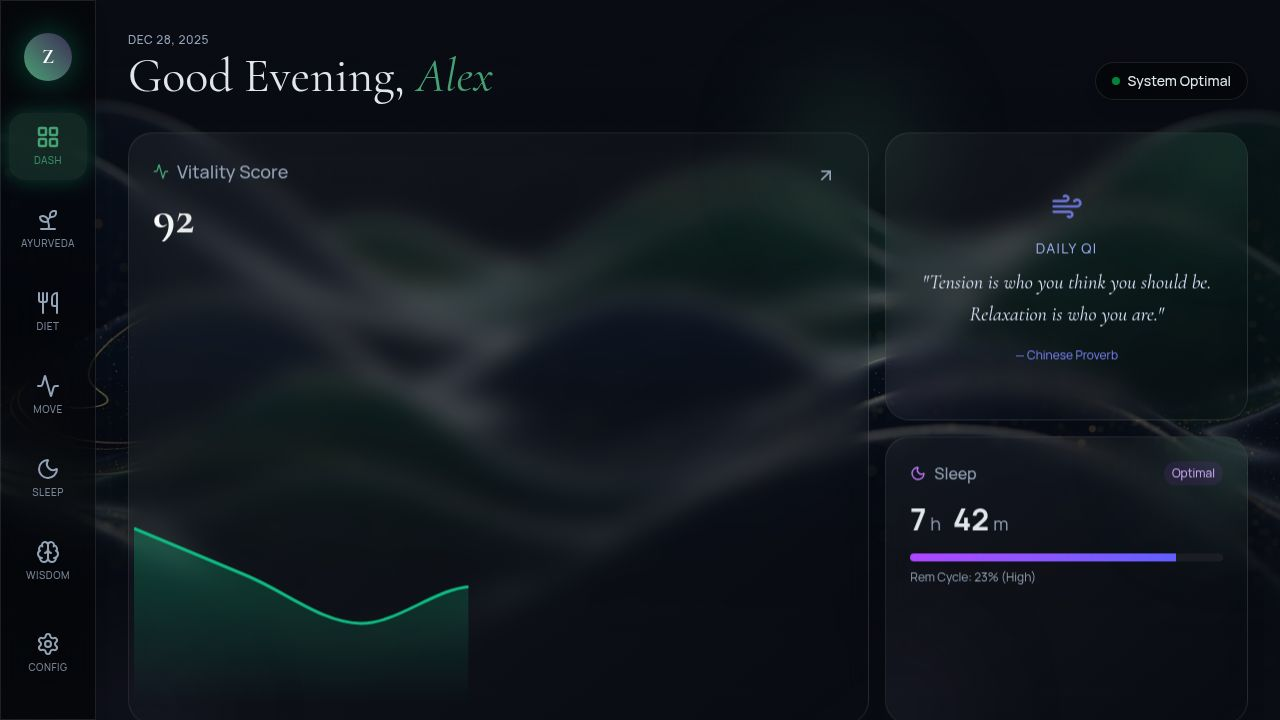
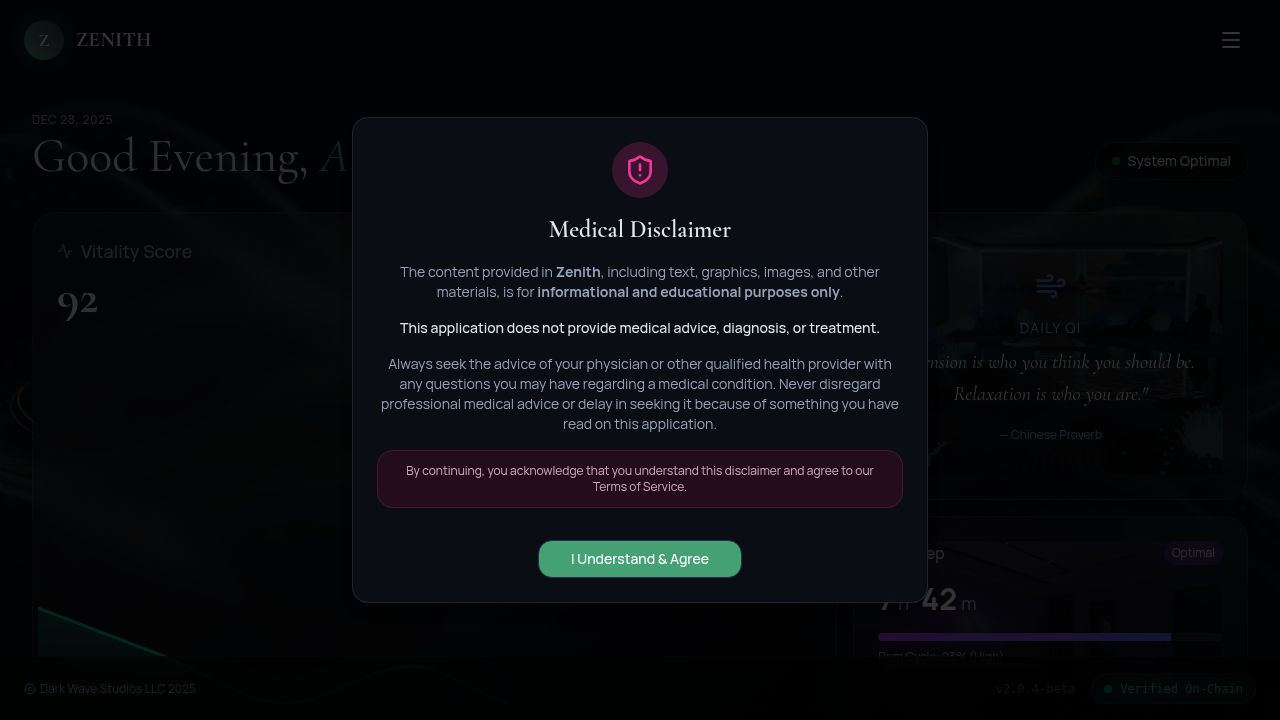
Update app visuals with new imagery and responsive design
Refactors UI components to use photorealistic card backgrounds, updates color palettes to a cyberpunk pastel theme, and ensures all modals are mobile-responsive.

Replit-Commit-Author: Agent
Replit-Commit-Session-Id: ba9a7f8b-3c4c-42c8-ab50-ab88c8bc8138
Replit-Commit-Checkpoint-Type: full_checkpoint
Replit-Commit-Event-Id: 4080deb7-ec1f-4f6b-8638-ea4f52dde22e
Replit-Commit-Screenshot-Url: https://storage.googleapis.com/screenshot-production-us-central1/c3c833f9-f728-4fd9-8731-e0b7935aac36/ba9a7f8b-3c4c-42c8-ab50-ab88c8bc8138/WCYKv8z
Replit-Helium-Checkpoint-Created: true

diff --git a/client/src/pages/Home.tsx b/client/src/pages/Home.tsx
@@ -3,6 +3,9 @@ import { BentoGrid, BentoCard } from "@/components/ui/bento-grid";
 import { motion } from "framer-motion";
 import { Activity, Leaf, Moon, Sun, Wind, ArrowUpRight, Heart, Brain, Utensils } from "lucide-react";
 import { Area, AreaChart, ResponsiveContainer, XAxis, YAxis, Tooltip } from "recharts";
+import sleepBg from "@assets/generated_images/ethereal_bedroom_sleep_sanctuary_with_nebula_projection.png";
+import dietBg from "@assets/generated_images/cyberpunk_healthy_smoothie_bowl_with_neon_lighting.png";
+import zenBg from "@assets/generated_images/futuristic_zen_garden_with_bioluminescent_plants.png";
 
 const data = [
   { name: "Mon", value: 4000 },
@@ -36,8 +39,8 @@ export default function Home() {
 
       <BentoGrid>
         {/* Main Health Score */}
-        <BentoCard colSpan={2} rowSpan={2} className="relative overflow-visible">
-          <div className="flex justify-between items-start mb-4">
+        <BentoCard colSpan={2} rowSpan={2} className="relative overflow-hidden">
+          <div className="flex justify-between items-start mb-4 relative z-10">
             <div>
               <h3 className="text-lg font-medium text-muted-foreground flex items-center gap-2">
                 <Activity className="w-4 h-4 text-primary" /> Vitality Score
@@ -51,7 +54,7 @@ export default function Home() {
             </button>
           </div>
           
-          <div className="h-[200px] w-full mt-auto -mb-6 -mx-6">
+          <div className="h-[200px] w-full mt-auto -mb-6 -mx-6 relative z-10">
             <ResponsiveContainer width="100%" height="100%">
               <AreaChart data={data}>
                 <defs>
@@ -80,72 +83,88 @@ export default function Home() {
         </BentoCard>
 
         {/* Daily Wisdom - Eastern */}
-        <BentoCard className="bg-gradient-to-br from-indigo-900/40 to-purple-900/40 border-indigo-500/20">
-          <div className="flex flex-col h-full justify-center text-center p-2">
+        <BentoCard className="relative overflow-hidden group">
+          <div className="absolute inset-0 bg-cover bg-center transition-transform duration-700 group-hover:scale-110 opacity-40" 
+               style={{ backgroundImage: `url(${zenBg})` }} />
+          <div className="absolute inset-0 bg-black/40 group-hover:bg-black/20 transition-colors duration-500" />
+          
+          <div className="flex flex-col h-full justify-center text-center p-2 relative z-10">
             <Wind className="w-8 h-8 text-indigo-400 mx-auto mb-4 opacity-80" />
             <h4 className="text-sm uppercase tracking-widest text-indigo-300 mb-2">Daily Qi</h4>
-            <p className="font-serif italic text-xl leading-relaxed text-indigo-100">
+            <p className="font-serif italic text-xl leading-relaxed text-white">
               "Tension is who you think you should be. Relaxation is who you are."
             </p>
-            <p className="text-xs text-indigo-400 mt-4">— Chinese Proverb</p>
+            <p className="text-xs text-indigo-300 mt-4">— Chinese Proverb</p>
           </div>
         </BentoCard>
 
         {/* Sleep Metric */}
-        <BentoCard className="relative group">
-          <div className="flex justify-between items-start">
-            <h3 className="text-muted-foreground font-medium flex items-center gap-2">
-              <Moon className="w-4 h-4 text-purple-400" /> Sleep
-            </h3>
-            <span className="text-xs px-2 py-1 rounded-full bg-purple-500/10 text-purple-300">Optimal</span>
-          </div>
-          <div className="mt-4">
-            <div className="flex items-baseline gap-1">
-              <span className="text-3xl font-bold text-foreground">7</span>
-              <span className="text-lg text-muted-foreground">h</span>
-              <span className="text-3xl font-bold text-foreground ml-2">42</span>
-              <span className="text-lg text-muted-foreground">m</span>
+        <BentoCard className="relative group overflow-hidden">
+          <div className="absolute inset-0 bg-cover bg-center transition-transform duration-700 group-hover:scale-110 opacity-30" 
+               style={{ backgroundImage: `url(${sleepBg})` }} />
+          <div className="absolute inset-0 bg-gradient-to-t from-black/80 to-transparent" />
+
+          <div className="relative z-10">
+            <div className="flex justify-between items-start">
+              <h3 className="text-white/80 font-medium flex items-center gap-2">
+                <Moon className="w-4 h-4 text-purple-400" /> Sleep
+              </h3>
+              <span className="text-xs px-2 py-1 rounded-full bg-purple-500/20 text-purple-200 backdrop-blur-md">Optimal</span>
             </div>
-            <div className="w-full h-2 bg-white/5 rounded-full mt-4 overflow-hidden">
-              <div className="h-full bg-gradient-to-r from-purple-500 to-indigo-500 w-[85%]" />
+            <div className="mt-4">
+              <div className="flex items-baseline gap-1 text-white">
+                <span className="text-3xl font-bold">7</span>
+                <span className="text-lg opacity-70">h</span>
+                <span className="text-3xl font-bold ml-2">42</span>
+                <span className="text-lg opacity-70">m</span>
+              </div>
+              <div className="w-full h-2 bg-white/10 rounded-full mt-4 overflow-hidden backdrop-blur-sm">
+                <div className="h-full bg-gradient-to-r from-purple-500 to-indigo-500 w-[85%]" />
+              </div>
+              <p className="text-xs text-white/60 mt-2">Rem Cycle: 23% (High)</p>
             </div>
-            <p className="text-xs text-muted-foreground mt-2">Rem Cycle: 23% (High)</p>
           </div>
         </BentoCard>
 
         {/* Quick Diet */}
-        <BentoCard>
-          <div className="flex justify-between items-start mb-4">
-             <h3 className="text-muted-foreground font-medium flex items-center gap-2">
-              <Leaf className="w-4 h-4 text-green-400" /> Nutrition
-            </h3>
-          </div>
-          <div className="space-y-3">
-             <div className="flex justify-between items-center p-2 rounded-lg bg-white/5 hover:bg-white/10 transition-colors cursor-pointer">
-                <div className="flex items-center gap-3">
-                  <div className="w-8 h-8 rounded-full bg-orange-500/20 flex items-center justify-center">
-                    <Sun className="w-4 h-4 text-orange-400" />
+        <BentoCard className="relative overflow-hidden group">
+          <div className="absolute inset-0 bg-cover bg-center transition-transform duration-700 group-hover:scale-110 opacity-20" 
+               style={{ backgroundImage: `url(${dietBg})` }} />
+          <div className="absolute inset-0 bg-gradient-to-b from-black/60 to-black/80" />
+
+          <div className="relative z-10">
+            <div className="flex justify-between items-start mb-4">
+               <h3 className="text-white/80 font-medium flex items-center gap-2">
+                <Leaf className="w-4 h-4 text-green-400" /> Nutrition
+              </h3>
+            </div>
+            <div className="space-y-3">
+               <div className="flex justify-between items-center p-2 rounded-lg bg-white/10 hover:bg-white/20 transition-colors cursor-pointer backdrop-blur-md">
+                  <div className="flex items-center gap-3">
+                    <div className="w-8 h-8 rounded-full bg-orange-500/20 flex items-center justify-center">
+                      <Sun className="w-4 h-4 text-orange-400" />
+                    </div>
+                    <div>
+                      <p className="text-sm font-medium text-white">Breakfast</p>
+                      <p className="text-xs text-white/60">Oatmeal & Berries</p>
+                    </div>
                   </div>
-                  <div>
-                    <p className="text-sm font-medium">Breakfast</p>
-                    <p className="text-xs text-muted-foreground">Oatmeal & Berries</p>
+                  <span className="text-xs font-mono text-green-400">320 kcal</span>
+               </div>
+               
+               <div className="flex justify-between items-center p-2 rounded-lg bg-white/10 hover:bg-white/20 transition-colors cursor-pointer backdrop-blur-md">
+                  <div className="flex items-center gap-3">
+                    <div className="w-8 h-8 rounded-full bg-blue-500/20 flex items-center justify-center">
+                      <Utensils className="w-4 h-4 text-blue-400" />
+                    </div>
+                    <div>
+                      <p className="text-sm font-medium text-white">Lunch</p>
+                      <p className="text-xs text-white/60">Logged 12:30 PM</p>
+                    </div>
                   </div>
-                </div>
-                <span className="text-xs font-mono text-green-400">320 kcal</span>
-             </div>
-             
-             <div className="flex justify-between items-center p-2 rounded-lg bg-white/5 hover:bg-white/10 transition-colors cursor-pointer">
-                <div className="flex items-center gap-3">
-                  <div className="w-8 h-8 rounded-full bg-blue-500/20 flex items-center justify-center">
-                    <Utensils className="w-4 h-4 text-blue-400" />
-                  </div>
-                  <div>
-                    <p className="text-sm font-medium">Lunch</p>
-                    <p className="text-xs text-muted-foreground">Logged 12:30 PM</p>
-                  </div>
-                </div>
-                <span className="text-xs font-mono text-green-400">540 kcal</span>
-             </div>
+                  <span className="text-xs font-mono text-green-400">540 kcal</span>
+               </div>
+            </div>
           </div>
         </BentoCard>
 

diff --git a/client/src/pages/Ayurveda.tsx b/client/src/pages/Ayurveda.tsx
@@ -4,14 +4,15 @@ import { motion } from "framer-motion";
 import { Flame, Wind, Droplets, Sun, Moon, Leaf, Sprout } from "lucide-react";
 import { useState } from "react";
 import { cn } from "@/lib/utils";
+import alchemyBg from "@assets/generated_images/modern_alchemy_lab_with_glowing_herbal_elixirs.png";
 
 const doshas = [
   {
     name: "Vata",
     element: "Air & Ether",
     icon: Wind,
-    color: "text-blue-300",
-    bg: "bg-blue-500/20",
+    color: "text-cyan-300",
+    bg: "bg-cyan-500/20",
     desc: "The energy of movement. Governs breathing, pulsation, and muscle movement.",
     characteristics: ["Creative", "Quick", "Changeable", "Light", "Dry"]
   },
@@ -19,8 +20,8 @@ const doshas = [
     name: "Pitta",
     element: "Fire & Water",
     icon: Flame,
-    color: "text-orange-300",
-    bg: "bg-orange-500/20",
+    color: "text-pink-300",
+    bg: "bg-pink-500/20",
     desc: "The energy of digestion and metabolism. Governs body temperature and intelligence.",
     characteristics: ["Determined", "Sharp", "Hot", "Oily", "Intense"]
   },
@@ -49,7 +50,7 @@ export default function Ayurveda() {
 
   return (
     <Shell>
-      <div className="mb-8">
+      <div className="mb-8 relative z-10">
         <h1 className="text-4xl font-serif font-medium mb-2">Ayurvedic Wisdom</h1>
         <p className="text-muted-foreground">The science of life (Ayur = Life, Veda = Knowledge). Understanding your unique constitution.</p>
       </div>
@@ -94,41 +95,41 @@ export default function Ayurveda() {
         </BentoCard>
 
         {/* Dinacharya (Daily Routine) Clock */}
-        <BentoCard colSpan={2} rowSpan={2} className="relative overflow-hidden">
+        <BentoCard colSpan={2} rowSpan={2} className="relative overflow-hidden group">
+          <div className="absolute inset-0 bg-cover bg-center transition-transform duration-700 group-hover:scale-110 opacity-30" 
+               style={{ backgroundImage: `url(${alchemyBg})` }} />
+          <div className="absolute inset-0 bg-black/60 group-hover:bg-black/50 transition-colors" />
+
           <div className="flex justify-between items-center mb-6 z-10 relative">
-            <h3 className="text-lg font-medium flex items-center gap-2">
+            <h3 className="text-lg font-medium flex items-center gap-2 text-white">
               <Sun className="w-5 h-5 text-amber-400" /> Dinacharya (Daily Rhythm)
             </h3>
-            <span className="text-xs text-muted-foreground">Current Phase: <span className="text-white font-bold">Kapha</span></span>
+            <span className="text-xs text-white/80">Current Phase: <span className="text-white font-bold">Kapha</span></span>
           </div>
 
           <div className="grid gap-2 z-10 relative">
             {dailyRoutine.map((slot, i) => (
-              <div key={i} className="flex items-center gap-4 p-3 rounded-xl bg-white/5 hover:bg-white/10 transition-colors border border-white/5">
-                <div className="w-24 font-mono text-xs text-muted-foreground">{slot.time}</div>
+              <div key={i} className="flex items-center gap-4 p-3 rounded-xl bg-black/40 backdrop-blur-md hover:bg-black/60 transition-colors border border-white/5">
+                <div className="w-24 font-mono text-xs text-white/70">{slot.time}</div>
                 <div className={cn(
                   "px-2 py-1 rounded text-[10px] uppercase font-bold w-16 text-center",
-                  slot.phase === "Vata" ? "bg-blue-500/20 text-blue-300" :
-                  slot.phase === "Pitta" ? "bg-orange-500/20 text-orange-300" :
+                  slot.phase === "Vata" ? "bg-cyan-500/20 text-cyan-300" :
+                  slot.phase === "Pitta" ? "bg-pink-500/20 text-pink-300" :
                   "bg-emerald-500/20 text-emerald-300"
                 )}>
                   {slot.phase}
                 </div>
-                <div className="text-sm truncate">{slot.activity}</div>
+                <div className="text-sm truncate text-white/90">{slot.activity}</div>
               </div>
             ))}
           </div>
-          
-          {/* Decorative background elements */}
-          <div className="absolute top-1/2 right-0 -translate-y-1/2 translate-x-1/3 w-64 h-64 rounded-full border-4 border-white/5 z-0" />
-          <div className="absolute top-1/2 right-0 -translate-y-1/2 translate-x-1/3 w-48 h-48 rounded-full border-4 border-white/5 z-0" />
         </BentoCard>
 
         {/* Agni (Digestive Fire) Status */}
-        <BentoCard className="bg-gradient-to-br from-orange-900/20 to-red-900/20 border-orange-500/20">
+        <BentoCard className="bg-gradient-to-br from-pink-900/20 to-purple-900/20 border-pink-500/20">
            <div className="flex items-center gap-3 mb-4">
-              <div className="p-2 bg-orange-500/20 rounded-lg">
-                <Flame className="w-5 h-5 text-orange-400" />
+              <div className="p-2 bg-pink-500/20 rounded-lg">
+                <Flame className="w-5 h-5 text-pink-400" />
               </div>
               <div>
                  <p className="font-medium">Agni Status</p>
@@ -138,19 +139,19 @@ export default function Ayurveda() {
            
            <div className="text-center py-6">
              <div className="inline-block relative">
-               <Flame className="w-16 h-16 text-orange-500 animate-pulse" />
-               <div className="absolute inset-0 bg-orange-500 blur-2xl opacity-20" />
+               <Flame className="w-16 h-16 text-pink-500 animate-pulse" />
+               <div className="absolute inset-0 bg-pink-500 blur-2xl opacity-20" />
              </div>
              <h4 className="text-xl font-serif mt-4">Sama Agni</h4>
-             <p className="text-sm text-orange-200/60 mt-2">Balanced digestion. Maintain regular meal times.</p>
+             <p className="text-sm text-pink-200/60 mt-2">Balanced digestion. Maintain regular meal times.</p>
            </div>
         </BentoCard>
 
         {/* Ojas (Vitality) */}
         <BentoCard>
            <div className="flex items-center gap-3 mb-4">
-              <div className="p-2 bg-amber-500/20 rounded-lg">
-                <Sprout className="w-5 h-5 text-amber-400" />
+              <div className="p-2 bg-emerald-500/20 rounded-lg">
+                <Sprout className="w-5 h-5 text-emerald-400" />
               </div>
               <div>
                  <p className="font-medium">Ojas</p>
@@ -163,18 +164,18 @@ export default function Ayurveda() {
            <div className="space-y-2">
              <div className="flex justify-between text-xs">
                <span>Immunity</span>
-               <span className="text-amber-400">High</span>
+               <span className="text-emerald-400">High</span>
              </div>
              <div className="h-1.5 w-full bg-white/10 rounded-full overflow-hidden">
-               <div className="h-full w-[85%] bg-amber-500" />
+               <div className="h-full w-[85%] bg-emerald-500" />
              </div>
              
              <div className="flex justify-between text-xs mt-3">
                <span>Radiance</span>
-               <span className="text-amber-400">Building</span>
+               <span className="text-emerald-400">Building</span>
              </div>
              <div className="h-1.5 w-full bg-white/10 rounded-full overflow-hidden">
-               <div className="h-full w-[60%] bg-amber-500/60" />
+               <div className="h-full w-[60%] bg-emerald-500/60" />
              </div>
            </div>
         </BentoCard>
@@ -183,7 +184,7 @@ export default function Ayurveda() {
         <BentoCard colSpan={3} className="bg-white/5">
            <div className="flex items-start gap-6">
              <div className="hidden md:block p-4 bg-white/5 rounded-2xl">
-               <Leaf className="w-12 h-12 text-green-400" />
+               <Leaf className="w-12 h-12 text-emerald-400" />
              </div>
              <div>
                <h3 className="text-xl font-serif mb-2">Ritucharya (Seasonal Regimen): Hemanta (Late Autumn)</h3>

diff --git a/client/src/components/ui/disclaimer-modal.tsx b/client/src/components/ui/disclaimer-modal.tsx
@@ -27,10 +27,10 @@ export function DisclaimerModal() {
 
   return (
     <AlertDialog open={open} onOpenChange={setOpen}>
-      <AlertDialogContent className="bg-background/95 backdrop-blur-xl border-white/10 max-w-xl">
+      <AlertDialogContent className="bg-background/95 backdrop-blur-xl border-white/10 max-w-xl max-h-[90vh] overflow-y-auto">
         <AlertDialogHeader>
-          <div className="mx-auto p-3 bg-amber-500/20 rounded-full mb-4">
-            <ShieldAlert className="w-8 h-8 text-amber-500" />
+          <div className="mx-auto p-3 bg-pink-500/20 rounded-full mb-4">
+            <ShieldAlert className="w-8 h-8 text-pink-500" />
           </div>
           <AlertDialogTitle className="text-2xl font-serif text-center">
             Medical Disclaimer
@@ -46,7 +46,7 @@ export function DisclaimerModal() {
               <p>
                 Always seek the advice of your physician or other qualified health provider with any questions you may have regarding a medical condition. Never disregard professional medical advice or delay in seeking it because of something you have read on this application.
               </p>
-              <div className="p-3 bg-amber-900/20 border border-amber-500/20 rounded-lg text-xs text-amber-200/80 mt-4">
+              <div className="p-3 bg-pink-900/20 border border-pink-500/20 rounded-lg text-xs text-pink-200/80 mt-4">
                 <p>By continuing, you acknowledge that you understand this disclaimer and agree to our Terms of Service.</p>
               </div>
             </div>
